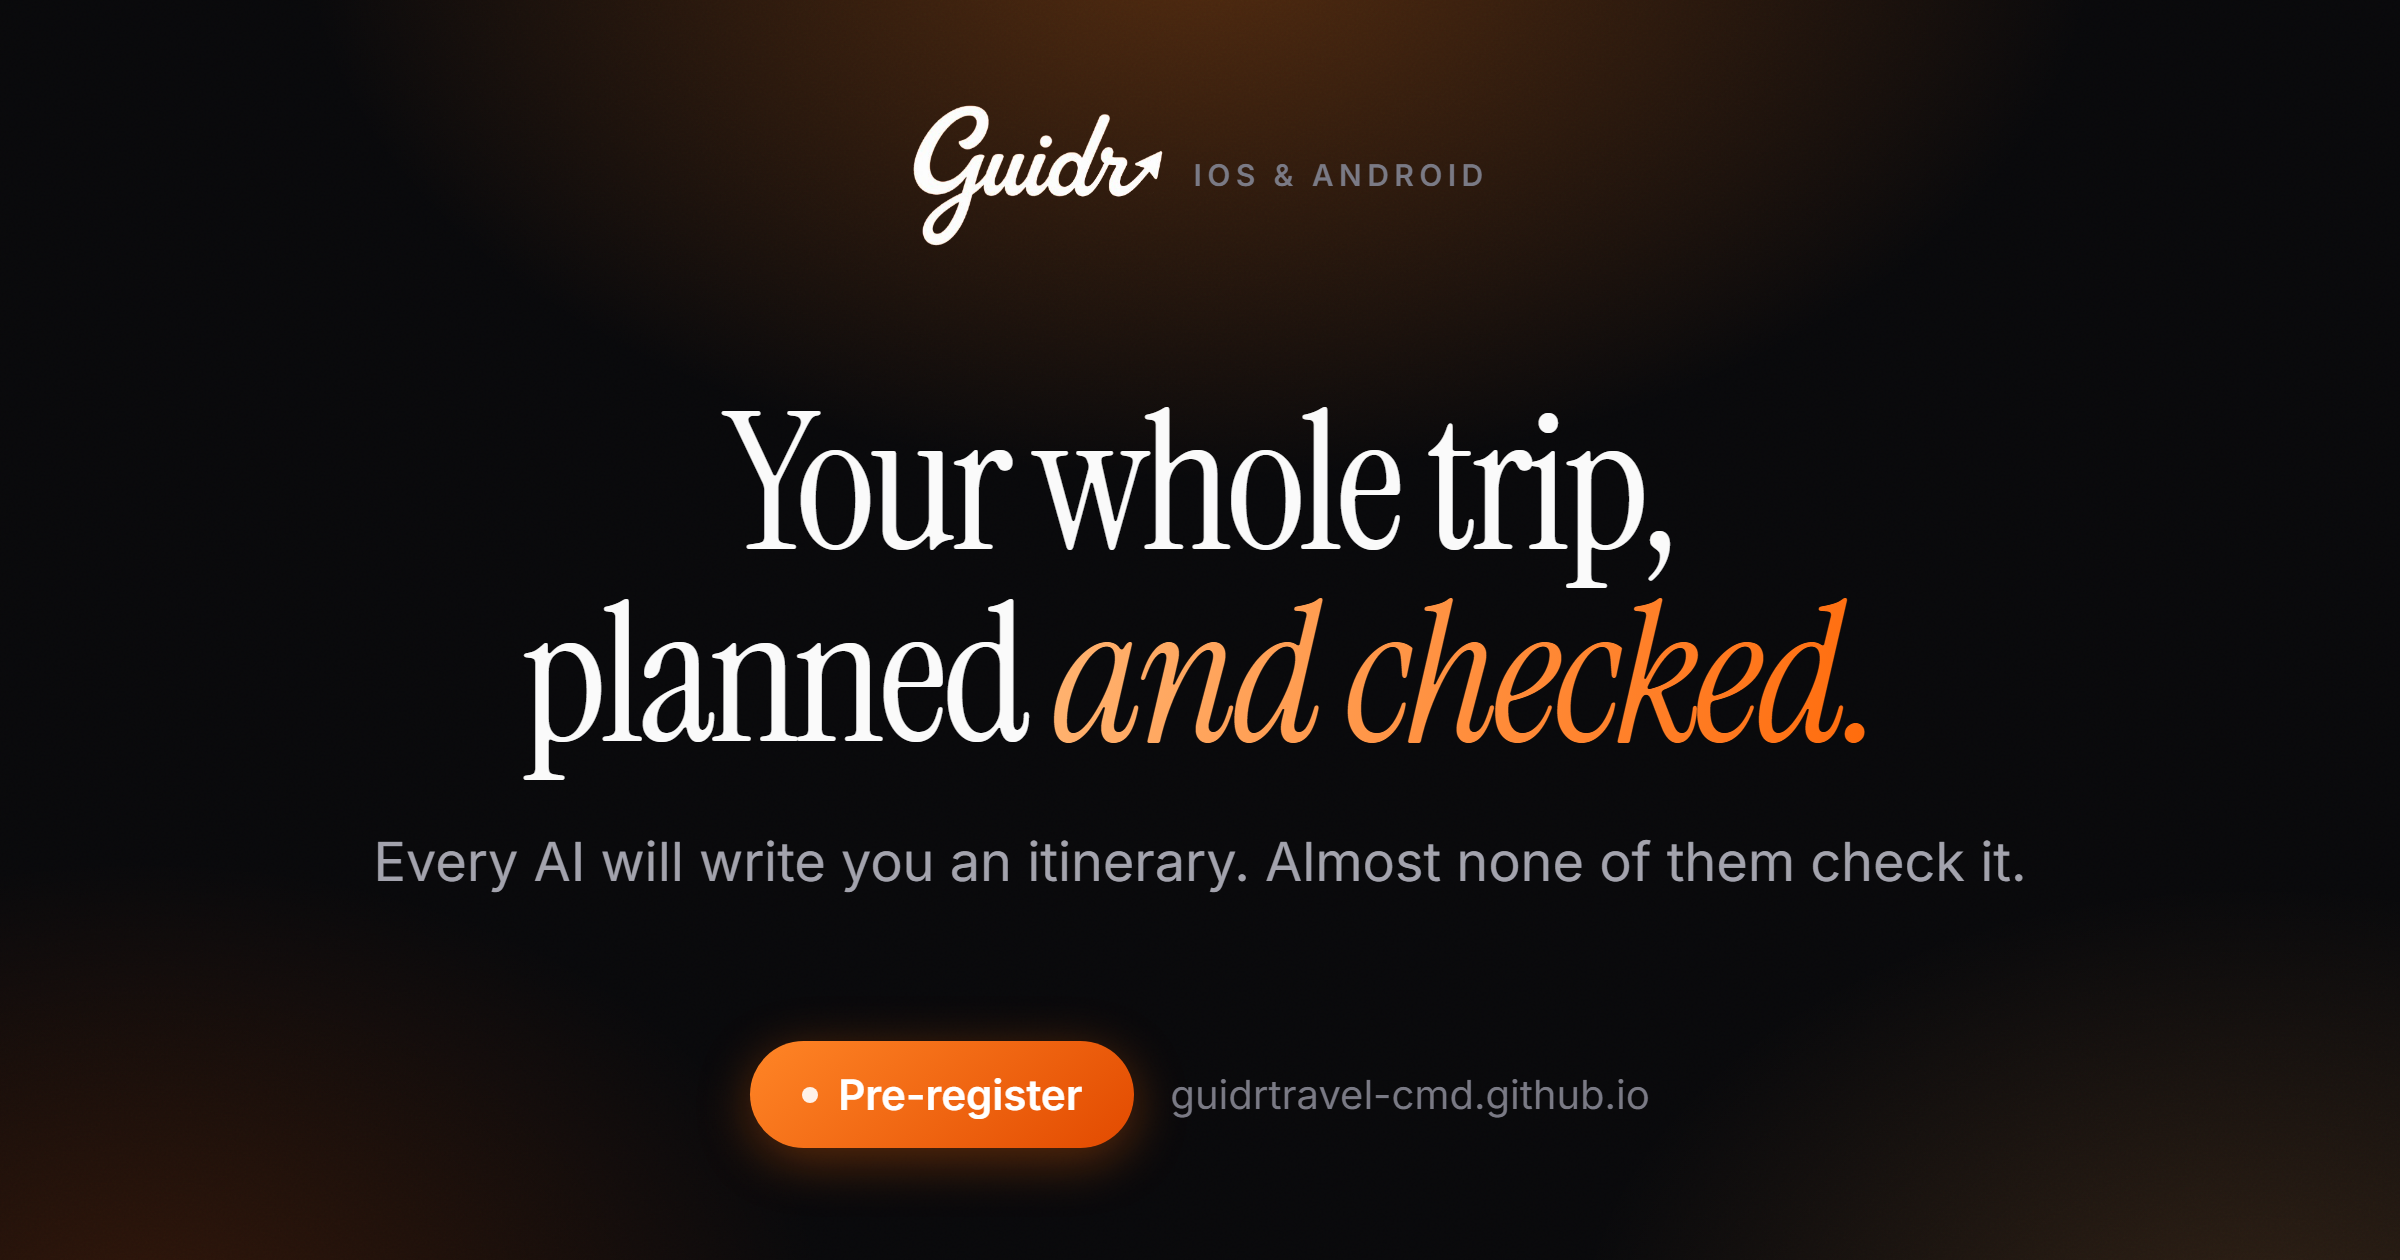
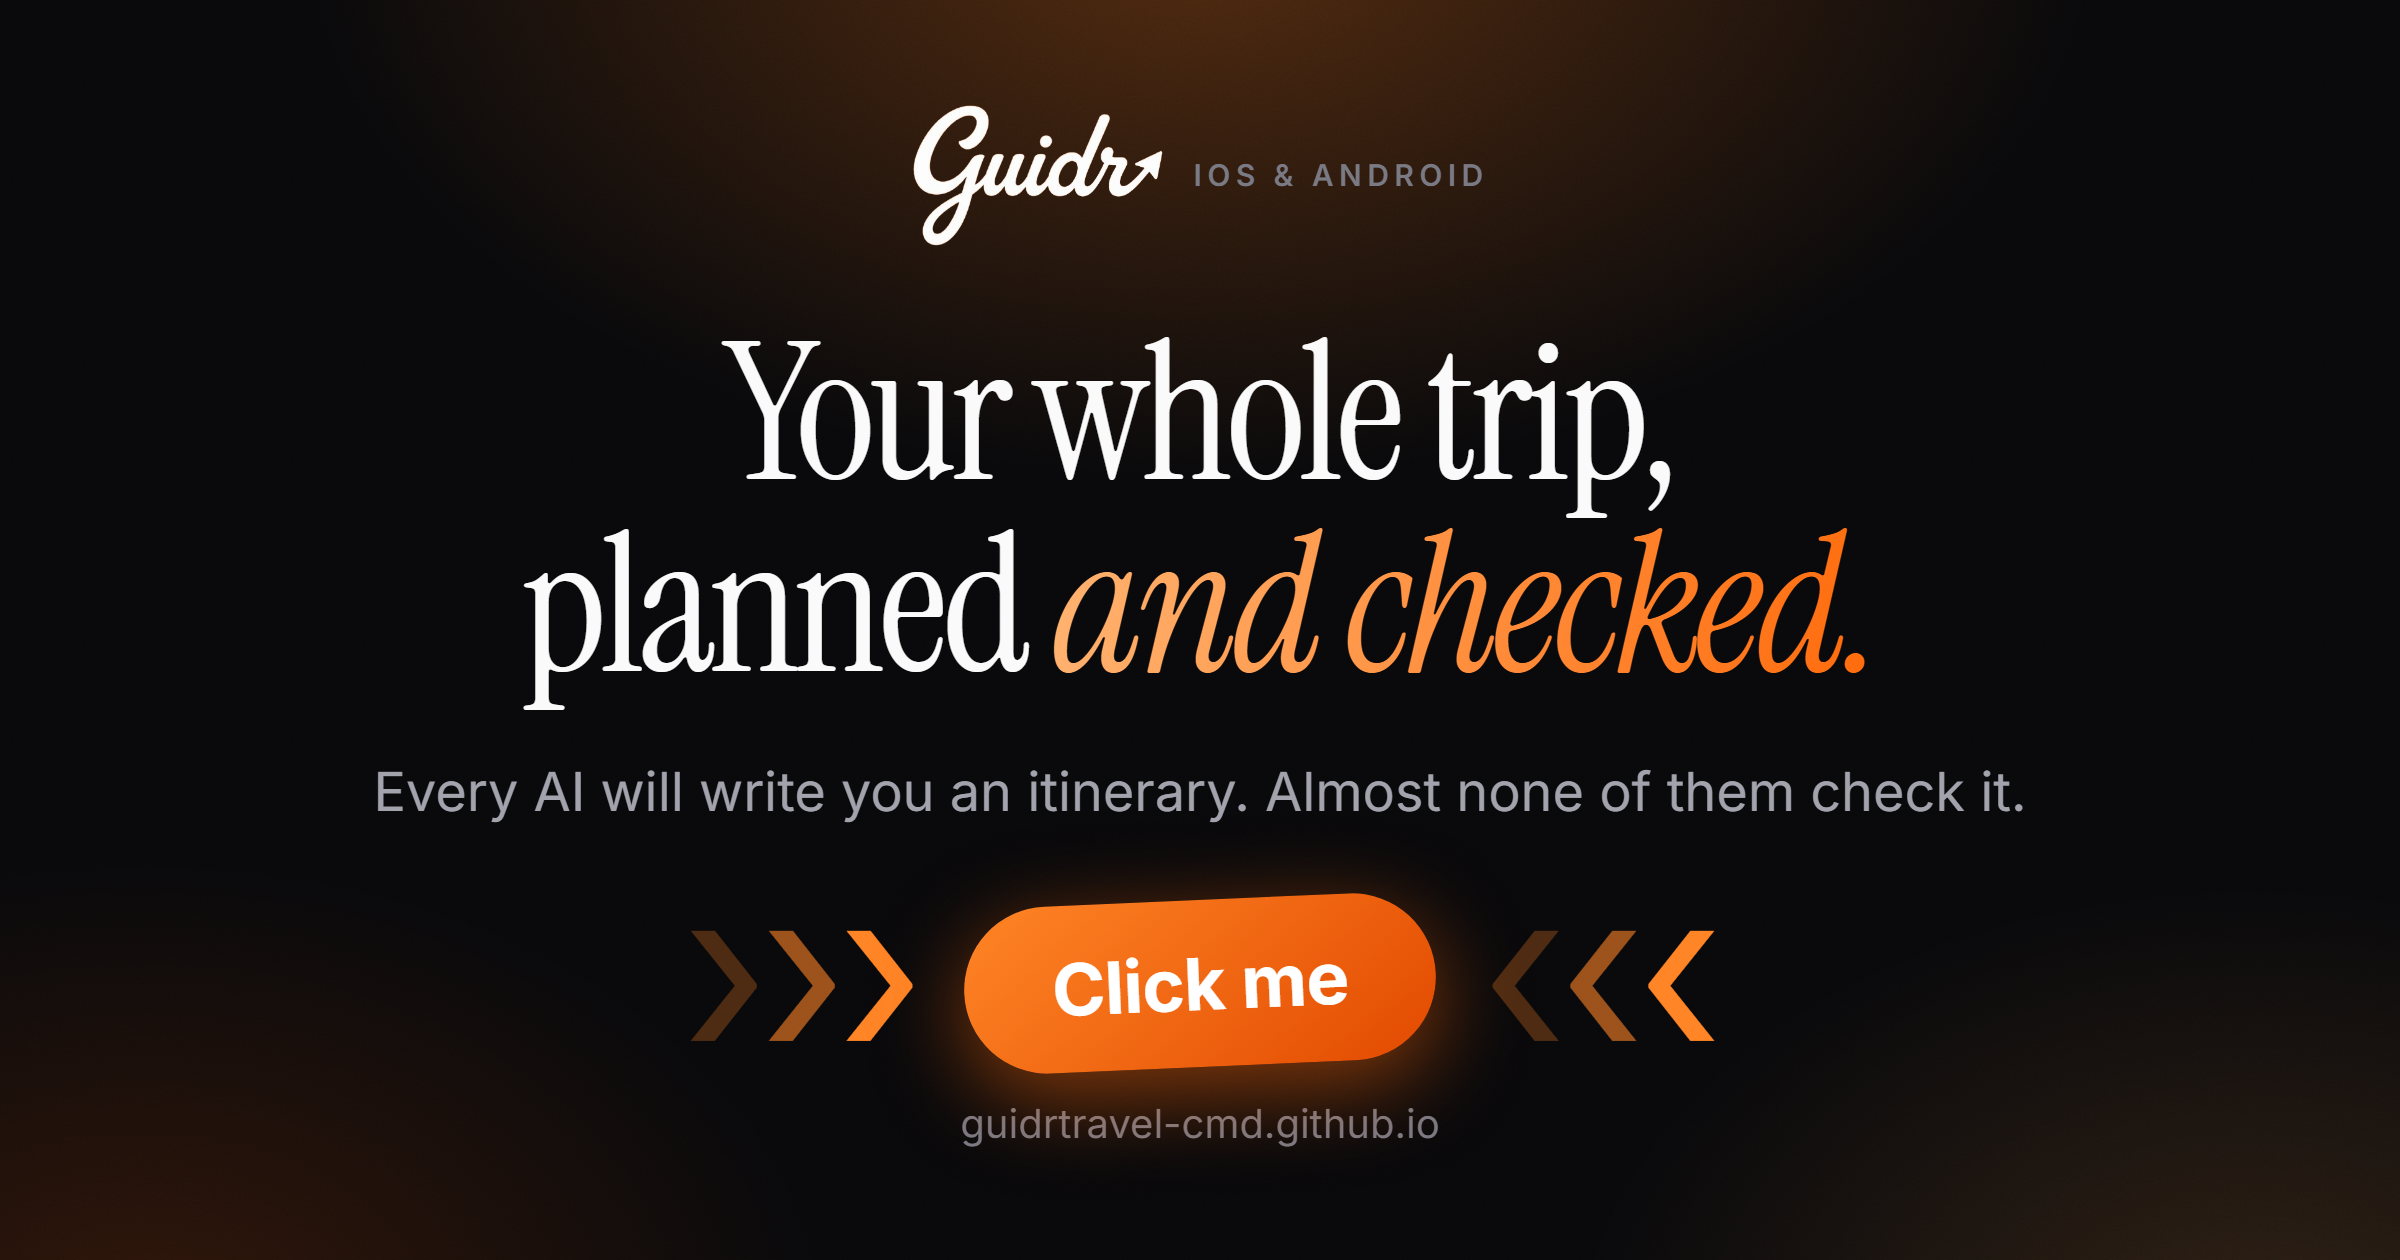
the card says which thing to press, and points at it

Changed region(s): [[0.1562, 0.2476, 0.8438, 0.9286]]

diff --git a/og.html b/og.html
@@ -53,10 +53,18 @@ h1 em{font-style:italic;
   -webkit-background-clip:text;background-clip:text;color:transparent}
 .sub{position:relative;margin-top:26px;font-size:27px;line-height:1.4;color:#A3A3AD}
 .foot{position:relative;display:flex;align-items:center;gap:18px;font-size:20px;color:#7A7A85}
-.pill{display:inline-flex;align-items:center;gap:10px;padding:14px 26px;border-radius:999px;
-  background:linear-gradient(140deg,#FF8526,#E24A00);color:#fff;font-weight:600;font-size:21px;
-  box-shadow:0 6px 26px rgba(255,106,10,.34)}
-.dot{width:8px;height:8px;border-radius:50%;background:#fff;opacity:.9}
+.foot{flex-direction:column;gap:16px}
+/* A screenshot cannot be pressed, so the card has to point at the thing you would press.
+   Three chevrons a side, fading towards the pill, aimed inwards. */
+.cta{display:flex;align-items:center;gap:24px}
+.arrows{display:flex;font-size:76px;line-height:1;color:#FF8526}
+.arrows span:nth-child(1){opacity:.28}
+.arrows span:nth-child(2){opacity:.6}
+.pill{display:inline-flex;align-items:center;gap:13px;padding:20px 44px;border-radius:999px;
+  background:linear-gradient(140deg,#FF8526,#E24A00);color:#fff;font-weight:700;font-size:36px;
+  letter-spacing:-.01em;transform:rotate(-2.5deg);
+  box-shadow:0 12px 44px rgba(255,106,10,.5)}
+
 </style>
 </head>
 <body>
@@ -73,7 +81,11 @@ h1 em{font-style:italic;
 </div>
 
 <div class="foot">
-  <span class="pill"><span class="dot"></span>Pre-register</span>
+  <div class="cta">
+    <span class="arrows"><span>&#10095;</span><span>&#10095;</span><span>&#10095;</span></span>
+    <span class="pill">Click me</span>
+    <span class="arrows"><span>&#10094;</span><span>&#10094;</span><span>&#10094;</span></span>
+  </div>
   <span>guidrtravel-cmd.github.io</span>
 </div>
 </body>

diff --git a/index.html b/index.html
@@ -16,7 +16,7 @@
      what made one of the first two posts a giant zoomed orange G.
      BUMP ?v= AFTER RE-RENDERING. X caches a card against the image URL and will not
      refetch the same one, so without the bump the old card survives a redesign. -->
-<meta property="og:image" content="https://guidrtravel-cmd.github.io/og.png?v=3">
+<meta property="og:image" content="https://guidrtravel-cmd.github.io/og.png?v=4">
 <meta property="og:image:width" content="2400">
 <meta property="og:image:height" content="1260">
 <meta property="og:image:alt" content="Guidr. Your whole trip, planned and checked.">
@@ -29,7 +29,7 @@
 <meta property="og:site_name" content="Guidr">
 <meta property="og:type" content="website">
 <meta name="twitter:card" content="summary_large_image">
-<meta name="twitter:image" content="https://guidrtravel-cmd.github.io/og.png?v=3">
+<meta name="twitter:image" content="https://guidrtravel-cmd.github.io/og.png?v=4">
 <link rel="preconnect" href="https://fonts.googleapis.com">
 <link rel="preconnect" href="https://fonts.gstatic.com" crossorigin>
 <link rel="preconnect" href="https://accounts.google.com">
